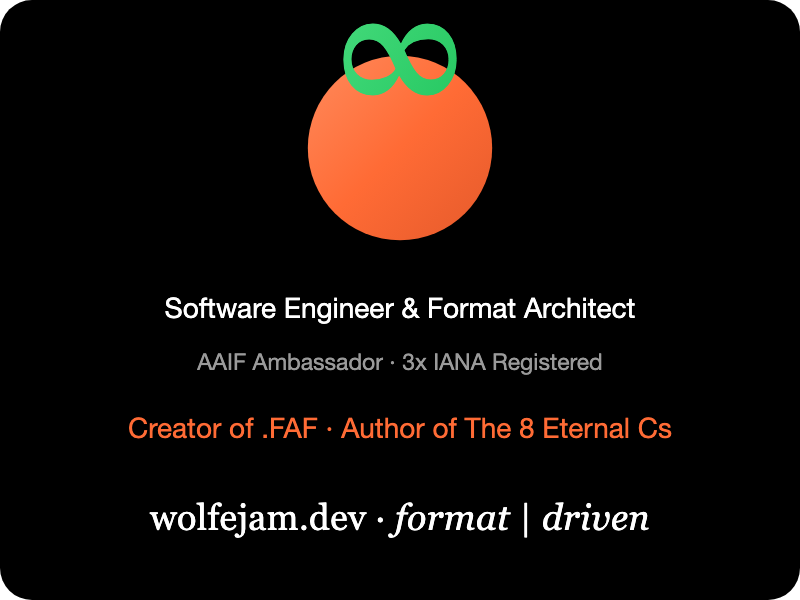
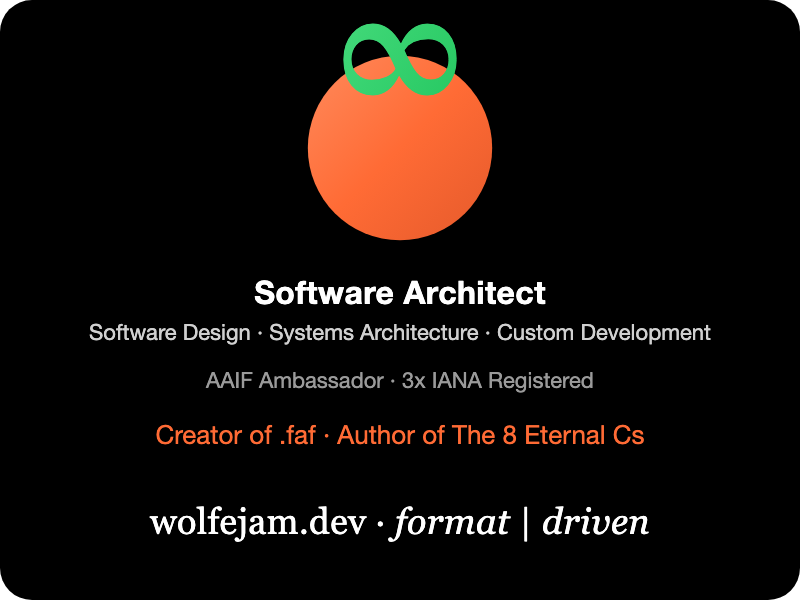
Card and preview image: Software Architect

Changed region(s): [[0.0938, 0.45, 0.9062, 0.66], [0.1562, 0.69, 0.8438, 0.75], [0.1875, 0.84, 0.8125, 0.9]]

diff --git a/index.html b/index.html
@@ -800,7 +800,7 @@
                 
                 <!-- Brand Card -->
                 <div class="brand-card">
-                    <img src="/brand-card.png" width="400" height="300" alt="Software Engineer & Format Architect - AAIF Ambassador - 3x IANA Registered - Creator of .FAF - Author of The 8 Eternal Cs">
+                    <img src="/brand-card.png" width="400" height="300" alt="Software Architect · Software Design · Systems Architecture · Custom Development · AAIF Ambassador · 3x IANA Registered · Creator of .faf · Author of The 8 Eternal Cs">
                 </div>
                 
                 <p class="tagline">30 years designing formats that last. From Commodore Amiga to Internet AI standards.</p>
